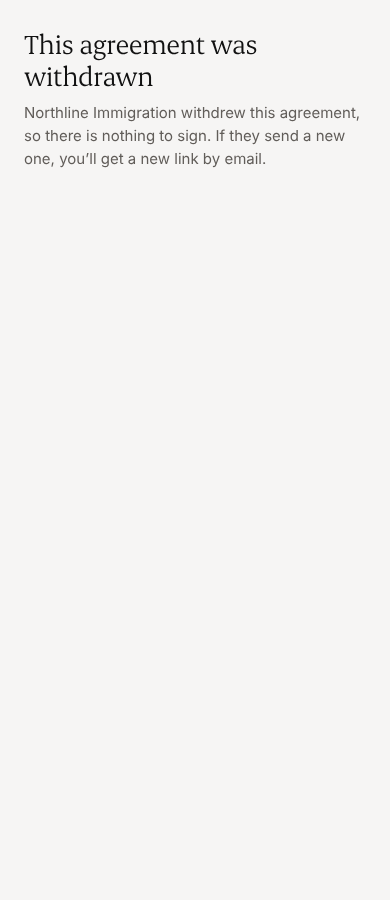
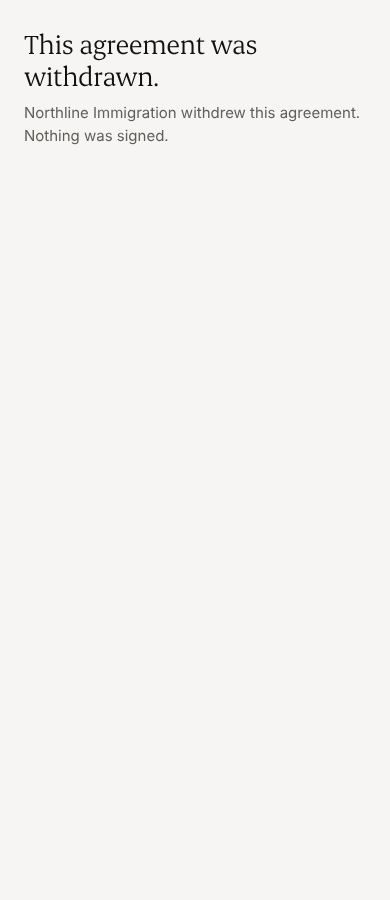
Agreement panel: match the #166 spec (copy, chips, inline void error)
- Void dialog: the spec's copy (the client's first name, "Reason (staff
  only)", the hint and placeholder), an inline error for a missing reason,
  maxlength 500.
- Sent row reads "{time} to {email}"; Void is red text.
- Voided: chip tone bad, the struck "sent {date}" on the Agreement line,
  "{time} by {name}" ("A staff member" when unknown), the spec's note, and a
  primary Send consultation agreement.
- Remind refuses with "Email notices are off for this client" when they are;
  its idempotency key carries the UTC time.
- The open function is note_booking_agreement_opened, as the spec names it.
- Withdrawn page copy per the spec.
- Screenshots refreshed (sent, sent opened, signed, voided, void dialog and
  its error, withdrawn; desktop and 390px).

Claude-Session: https://claude.ai/code/session_016fkfHxqRwb5WNzyNHZab58

Changed region(s): [[0.0615, 0.1244, 0.6769, 0.1867], [0.6769, 0.1244, 0.8923, 0.1556]]

diff --git a/src/components/sheet/designer/consultations.tsx b/src/components/sheet/designer/consultations.tsx
@@ -24,6 +24,8 @@ export type RowAction = {
   dlg?: string;
   toast?: string;
   data?: Record<string, string>;
+  /** Live: "primary" is the blue button; "danger" is the Designer's red text (Void). */
+  tone?: "primary" | "danger";
 };
 
 export type ConsultationRow = {
@@ -105,9 +107,11 @@ function ChipView({ chip }: { chip: Chip }) {
 
 function ActionButton({ action }: { action: RowAction }) {
   const data = action.data ?? {};
+  const cls = action.tone === "primary" ? "btn p sm" : "btn sm";
+  const style = action.tone === "danger" ? { color: "#a12c20" } : undefined;
   if (action.dlg) {
     return (
-      <button className={"btn sm"} data-dlg={action.dlg} data-fpd={"1"} {...data}>
+      <button className={cls} style={style} data-dlg={action.dlg} data-fpd={"1"} {...data}>
         {action.icon ? <Icon name={action.icon} cls={"ic s"} /> : null}
         {action.label}
       </button>
@@ -115,14 +119,14 @@ function ActionButton({ action }: { action: RowAction }) {
   }
   if (action.toast) {
     return (
-      <button className={"btn sm"} data-toast={action.toast} data-sub={""} data-fpb={"1"} {...data}>
+      <button className={cls} style={style} data-toast={action.toast} data-sub={""} data-fpb={"1"} {...data}>
         {action.icon ? <Icon name={action.icon} cls={"ic s"} /> : null}
         {action.label}
       </button>
     );
   }
   return (
-    <button className={"btn sm"} type={"button"} {...data}>
+    <button className={cls} style={style} type={"button"} {...data}>
       {action.icon ? <Icon name={action.icon} cls={"ic s"} /> : null}
       {action.label}
     </button>
@@ -600,7 +604,8 @@ export function SummaryDialog({ data }: { data: SummaryDialogData }) {
 
 export type AgreementPanelData = {
   chip: Chip | null;
-  items: { term: string; value: string; struck?: boolean }[];
+  /** struck: a struck-through part after the value ("sent 21 Oct" on a voided agreement). */
+  items: { term: string; value: string; struck?: string }[];
   note: string | null;
   actions: RowAction[];
   link: { href: string; label: string } | null;
@@ -623,7 +628,15 @@ function AgreementPanel({ data }: { data: AgreementPanelData }) {
           {data.items.map((item) => (
             <div key={item.term}>
               <dt>{item.term}</dt>
-              <dd>{item.struck ? <s>{item.value}</s> : item.value}</dd>
+              <dd>
+                {item.value}
+                {item.struck ? (
+                  <>
+                    {" "}
+                    <Sep /> <s>{item.struck}</s>
+                  </>
+                ) : null}
+              </dd>
             </div>
           ))}
         </dl>
@@ -660,10 +673,16 @@ export function BookingVoidDialog({ data }: { data: { organizationId: string; bo
         </button>
       </div>
       <div className={"db"}>
-        <p>{`${data.client} won’t be able to sign it any more; the old link will say it was withdrawn. It stays on record, and you can send a new one.`}</p>
+        <p>{`${data.client}’s signing link stops working straight away. The agreement stays on record as voided, and you can send a new one later.`}</p>
         <div className={"fld"} style={{ marginTop: "12px" }}>
-          <label htmlFor={"bvR"}>{"Reason"}</label>
-          <textarea className={"ta"} id={"bvR"} rows={3} maxLength={500}></textarea>
+          <label htmlFor={"bvR"}>{"Reason (staff only)"}</label>
+          <small className={"hint"} id={"bvR-h"}>
+            {"Shown on the record with who voided it and when."}
+          </small>
+          <textarea className={"ta"} id={"bvR"} rows={3} maxLength={500} placeholder={"e.g. Wrong template sent"} aria-describedby={"bvR-h"}></textarea>
+          <p className={"fp-note"} id={"bvR-e"} role={"alert"} hidden style={{ margin: "6px 0 0", color: "#a12c20" }}>
+            {"Say why this agreement is voided. It stays on the record."}
+          </p>
         </div>
       </div>
       <div className={"df"}>

diff --git a/tests/booking-agreements.test.tsx b/tests/booking-agreements.test.tsx
@@ -102,7 +102,7 @@ describe("consultation agreement: staff screens", () => {
     expect(sent.actions.map((a) => a.label)).toEqual(["Copy signing link", "Remind", "Void"]);
     expect(sent.actions[0].data?.["data-copy"]).toBe(base.signLink);
     expect(sent.actions[1].data).toMatchObject({ "data-agreement-remind-booking": "1", "data-booking": "b1" });
-    expect(sent.actions[2].dlg).toBe("dlgBkVoid");
+    expect(sent.actions[2]).toMatchObject({ dlg: "dlgBkVoid", tone: "danger" });
     const opened = recordAgreement({ ...base, row: { ...row, sent_at: "2026-10-23T14:00:00Z", opened_at: "2026-10-23T15:00:00Z" } });
     expect(opened.items[2].value).not.toBe("Not yet");
   });
@@ -119,12 +119,15 @@ describe("consultation agreement: staff screens", () => {
       voidedBy: "Sam Host",
       row: { ...row, status: "voided", sent_at: "2026-10-23T14:00:00Z", voided_at: "2026-10-23T16:00:00Z", void_reason: "Wrong template sent" },
     });
-    expect(voided.chip).toEqual({ tone: "gr", label: "Voided" });
-    expect(voided.items.find((i) => i.term === "Sent")).toMatchObject({ struck: true });
-    expect(voided.items.find((i) => i.term === "Voided")?.value).toMatch(/^Sam Host, /);
+    expect(voided.chip).toEqual({ tone: "bad", label: "Voided" });
+    expect(voided.items[0]).toEqual({ term: "Agreement", value: "C-02 v3", struck: "sent 23 Oct" });
+    expect(voided.items.find((i) => i.term === "Voided")?.value).toMatch(/ by Sam Host$/);
     expect(voided.items.find((i) => i.term === "Reason")?.value).toBe("Wrong template sent");
-    expect(voided.note).toBe("The old link now tells Tomás this agreement was withdrawn.");
-    expect(voided.actions.map((a) => a.label)).toEqual(["Send consultation agreement"]);
+    expect(voided.note).toBe("The old link now tells Tomás this agreement was withdrawn. Send a fresh one when you’re ready.");
+    expect(voided.actions.map((a) => [a.label, a.tone])).toEqual([["Send consultation agreement", "primary"]]);
+    // Who voided it is unknown: "A staff member".
+    const unknown = recordAgreement({ ...base, row: { ...row, status: "voided", voided_at: "2026-10-23T16:00:00Z" } });
+    expect(unknown.items.find((i) => i.term === "Voided")?.value).toMatch(/ by A staff member$/);
     expect(agreementLabel({ ...row, status: "voided" })).toBe("Voided");
   });
 
@@ -140,6 +143,10 @@ describe("consultation agreement: staff screens", () => {
   it("the Void dialog asks for a reason, with Keep it and Void agreement", () => {
     const html = renderToStaticMarkup(createElement(BookingVoidDialog, { data: { organizationId: "o1", bookingId: "b1", client: "Tomás Duarte" } }));
     expect(html).toContain("Void this agreement?");
+    expect(html).toContain("Tomás Duarte’s signing link stops working straight away.");
+    expect(html).toContain("Reason (staff only)");
+    expect(html).toContain('placeholder="e.g. Wrong template sent"');
+    expect(html).toContain("Say why this agreement is voided. It stays on the record.");
     expect(html).toContain('id="bvR"');
     expect(html).toContain("Keep it");
     expect(html).toMatch(/data-agreement-void-booking="1"[^>]*data-booking="b1"|data-booking="b1"[^>]*data-agreement-void-booking="1"/);

diff --git a/src/modules/scheduling/sheet-present.ts b/src/modules/scheduling/sheet-present.ts
@@ -44,10 +44,15 @@ export function agreementLabel(row: BookingAgreementRow | null | undefined): str
 
 const SENDABLE = new Set(["held", "pending_payment", "confirmed"]);
 
+/** "21 Oct" in the given zone. */
+function dayMonth(iso: string, zone: string): string {
+  return new Intl.DateTimeFormat("en-GB", { day: "numeric", month: "short", timeZone: zone }).format(new Date(iso));
+}
+
 /** The record's Agreement and fee panel (design review on #161). */
 export type AgreementPanel = {
   chip: Chip | null;
-  items: { term: string; value: string; struck?: boolean }[];
+  items: { term: string; value: string; struck?: string }[];
   note: string | null;
   actions: RowAction[];
   link: { href: string; label: string } | null;
@@ -100,7 +105,7 @@ export function recordAgreement(input: {
       chip: { tone: "rev", label: "Sent, not signed" },
       items: [
         { term: "Agreement", value: name },
-        { term: "Sent", value: [when(row.sent_at), input.recipient ? `to ${input.recipient}` : null].filter(Boolean).join(", ") || "Sent" },
+        { term: "Sent", value: [when(row.sent_at), input.recipient ? `to ${input.recipient}` : null].filter(Boolean).join(" ") || "Sent" },
         { term: "Opened", value: when(row.opened_at) ?? "Not yet" },
         ...(row.reminded_at ? [{ term: "Reminded", value: when(row.reminded_at) ?? "" }] : []),
         fee,
@@ -109,24 +114,23 @@ export function recordAgreement(input: {
       actions: [
         { label: "Copy signing link", icon: "copy", toast: "Signing link copied", data: { "data-copy": input.signLink } },
         ...(upcoming ? [{ label: "Remind", data: { "data-agreement-remind-booking": "1", ...input.wire } }] : []),
-        { label: "Void", dlg: "dlgBkVoid" },
+        { label: "Void", dlg: "dlgBkVoid", tone: "danger" as const },
       ],
       link: null,
     };
   }
   if (row?.status === "voided") {
-    const by = [input.voidedBy, when(row.voided_at)].filter(Boolean).join(", ");
+    const sentDay = row.sent_at ? dayMonth(row.sent_at, zone) : null;
     return {
-      chip: { tone: "gr", label: "Voided" },
+      chip: { tone: "bad", label: "Voided" },
       items: [
-        { term: "Agreement", value: name },
-        { term: "Sent", value: when(row.sent_at) ? `sent ${when(row.sent_at)}` : "sent", struck: true },
-        { term: "Voided", value: by || "Voided" },
+        { term: "Agreement", value: name, ...(sentDay ? { struck: `sent ${sentDay}` } : {}) },
+        { term: "Voided", value: [when(row.voided_at), `by ${input.voidedBy ?? "A staff member"}`].filter(Boolean).join(" ") },
         ...(row.void_reason ? [{ term: "Reason", value: row.void_reason }] : []),
         fee,
       ],
-      note: `The old link now tells ${input.client} this agreement was withdrawn.`,
-      actions: send,
+      note: `The old link now tells ${input.client} this agreement was withdrawn. Send a fresh one when you’re ready.`,
+      actions: send.map((action) => ({ ...action, tone: "primary" as const })),
       link: null,
     };
   }

diff --git a/tests/booking-agreements.rls.test.ts b/tests/booking-agreements.rls.test.ts
@@ -301,12 +301,12 @@ describe("consultation agreements on bookings", () => {
     const id = (await db.query<{ id: string }>(`select public.send_booking_agreement($1, $2) as id`, [booking.id, tpl])).rows[0].id;
 
     await asAnon(db);
-    await db.query(`select public.open_booking_agreement($1)`, [ref]);
+    await db.query(`select public.note_booking_agreement_opened($1)`, [ref]);
     await asMaintenance(db);
     const first = (await db.query<{ opened_at: string }>(`select opened_at from public.booking_agreements where id = $1`, [id])).rows[0].opened_at;
     expect(first).toBeTruthy();
     await asAnon(db);
-    await db.query(`select public.open_booking_agreement($1)`, [ref]);
+    await db.query(`select public.note_booking_agreement_opened($1)`, [ref]);
     await asMaintenance(db);
     expect((await db.query<{ opened_at: string }>(`select opened_at from public.booking_agreements where id = $1`, [id])).rows[0].opened_at).toEqual(first);
 
@@ -327,5 +327,12 @@ describe("consultation agreements on bookings", () => {
     expect(Number(events)).toBe(2);
     const audit = (await db.query<{ action: string }>(`select action from public.audit_log where object_id = $1 and action = 'booking_agreement.reminded'`, [booking.id])).rows;
     expect(audit).toHaveLength(1);
+
+    // Email notices off for this client: refused with a sentence, nothing queued.
+    await asMaintenance(db);
+    await db.query(`update public.booking_agreements set reminded_at = now() - interval '2 hours' where id = $1`, [id]);
+    await db.query(`insert into public.person_contact_preferences (person_id, organization_id, email_notices) values ($1, $2, false)`, [ctx.personId, ctx.orgId]);
+    await asUser(db, staff(ctx.host.id, ctx.orgId));
+    await expectDbError(() => db.query(`select public.remind_booking_agreement($1)`, [booking.id]), /email notices are off/);
   });
 });

diff --git a/src/components/sheet/booking-acts.ts b/src/components/sheet/booking-acts.ts
@@ -188,10 +188,14 @@ export async function runBookingAgreementSend(button: HTMLElement, router: Route
 export async function runBookingAgreementVoid(button: HTMLElement, router: Router) {
   const dialog = button.closest("dialog");
   const reason = dialog ? value(dialog, "bvR").trim() : "";
+  const error = dialog?.querySelector<HTMLElement>("#bvR-e");
   if (reason.length < 3) {
-    toast2("Give a reason", { kind: "warn", sub: "A few words on why. Nothing was changed." });
+    // The reason stays in the dialog: an inline error, nothing written.
+    if (error) error.hidden = false;
+    el(dialog ?? document, "bvR")?.focus();
     return;
   }
+  if (error) error.hidden = true;
   const result = await voidBookingAgreement({ organizationId: button.dataset.org ?? "", bookingId: button.dataset.booking ?? "", reason });
   done(result, { title: "Agreement voided", sub: "It stays on record. The old link now says it was withdrawn." }, dialog, router);
 }

diff --git a/src/app/consultation/[ref]/agreement/page.tsx b/src/app/consultation/[ref]/agreement/page.tsx
@@ -33,14 +33,14 @@ async function Body({ params }: { params: Promise<{ ref: string }> }) {
     return (
       <SheetScreen page="book" tone="public">
         <QuietSheet
-          title="This agreement was withdrawn"
-          copy={`${view.firm} withdrew this agreement, so there is nothing to sign. If they send a new one, you’ll get a new link by email.`}
+          title="This agreement was withdrawn."
+          copy={`${view.firm} withdrew this agreement. Nothing was signed.`}
         />
       </SheetScreen>
     );
   }
   // The firm sees when the link was first opened (only while it is unsigned).
-  if (view.state === "open") await supabase.rpc("open_booking_agreement", { p_ref: reference });
+  if (view.state === "open") await supabase.rpc("note_booking_agreement_opened", { p_ref: reference });
   return (
     <SheetScreen page="book" tone="public">
       <AgreementSign view={view} reference={reference} />

diff --git a/src/modules/scheduling/staff-actions.ts b/src/modules/scheduling/staff-actions.ts
@@ -223,6 +223,7 @@ export async function remindBookingAgreement(input: { organizationId: string; bo
   if (!supabase) return { error: "Sign in first." };
   const { error } = await supabase.rpc("remind_booking_agreement", { p_booking_id: input.bookingId });
   if (error && /once an hour/.test(error.message)) return { error: "A reminder already went out in the last hour. Try again later." };
+  if (error && /email notices are off/.test(error.message)) return { error: "Email notices are off for this client" };
   if (error) return agreementError(error.message);
   refresh();
   return { ok: true };

diff --git a/src/types/database.types.ts b/src/types/database.types.ts
@@ -10264,7 +10264,7 @@ export type Database = {
         Args: { p_booking_id: string; p_template_id: string }
         Returns: string
       }
-      open_booking_agreement: { Args: { p_ref: string }; Returns: undefined }
+      note_booking_agreement_opened: { Args: { p_ref: string }; Returns: undefined }
       remind_booking_agreement: { Args: { p_booking_id: string }; Returns: number }
       set_booking_type_agreement: {
         Args: { p_event_type_id: string; p_template_id: string | null }

diff --git a/docs/DATABASE.md b/docs/DATABASE.md
@@ -480,7 +480,7 @@ Tested in `tests/booking-agreements.rls.test.ts` (the attendee gets EM08 with th
 
 The record's Agreement and fee panel (design review on #161).
 
-* `booking_agreements.opened_at`: when the booker first opened the private link. Set by `public.open_booking_agreement(ref)` (anon), only while it is unsigned; later opens don't move it.
+* `booking_agreements.opened_at`: when the booker first opened the private link. Set by `public.note_booking_agreement_opened(ref)` (anon), only while it is unsigned; later opens don't move it.
 * `booking_agreements.reminded_at`, `reminder_count`, and `public.remind_booking_agreement(booking)`: scheduling staff email the signing link again (the same `booking_agreement.sent` mail, EM08), at most once an hour counting from the send or the last reminder. Audited `booking_agreement.reminded`.
 * `public.booking_agreement_for_signing` now answers `{state: withdrawn, firm}` when the booking's agreement was voided and nothing new was sent, so the old link says it was withdrawn.
 
